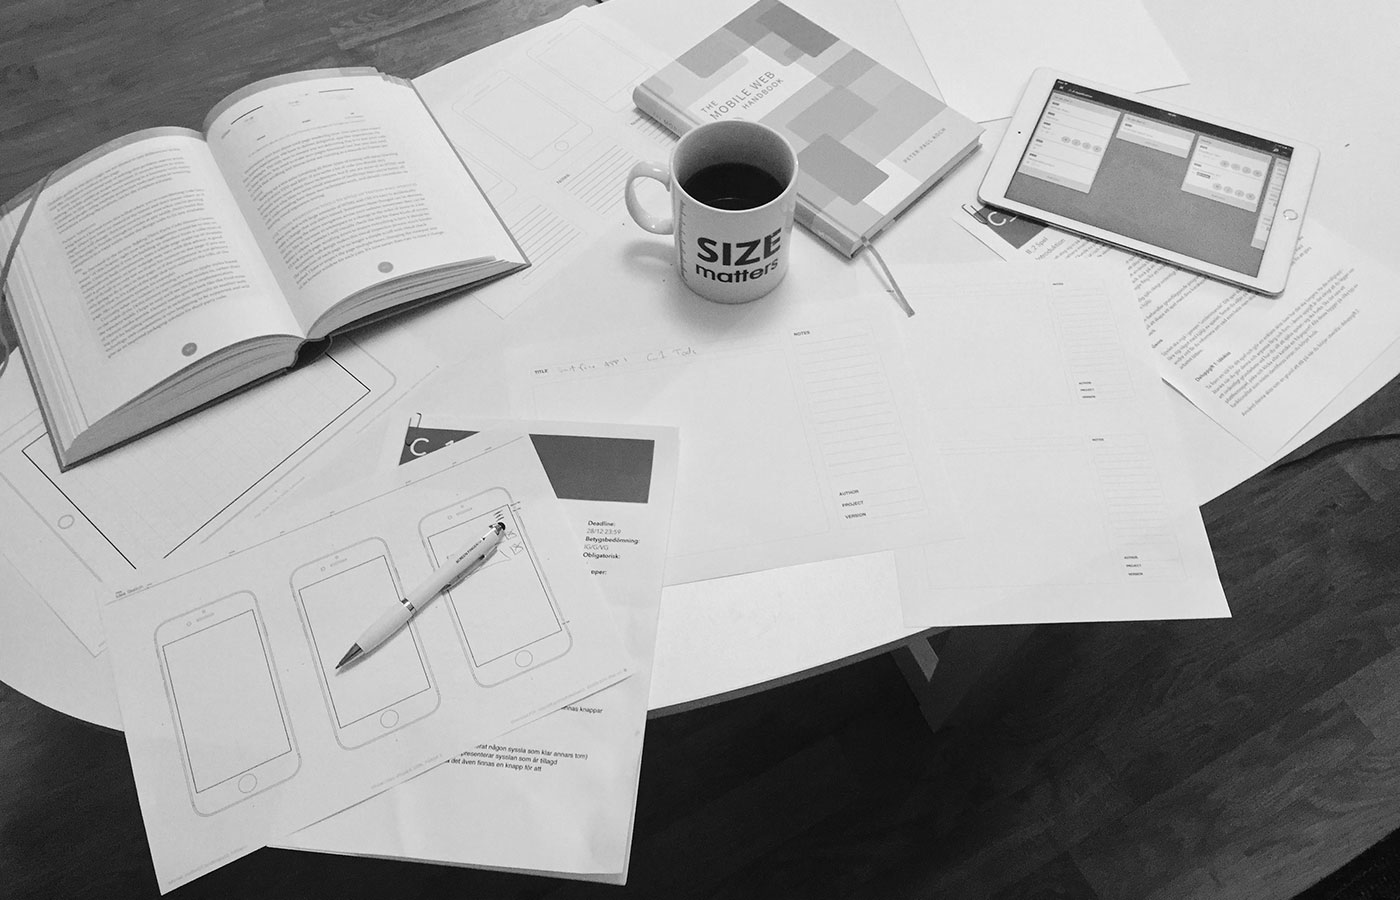
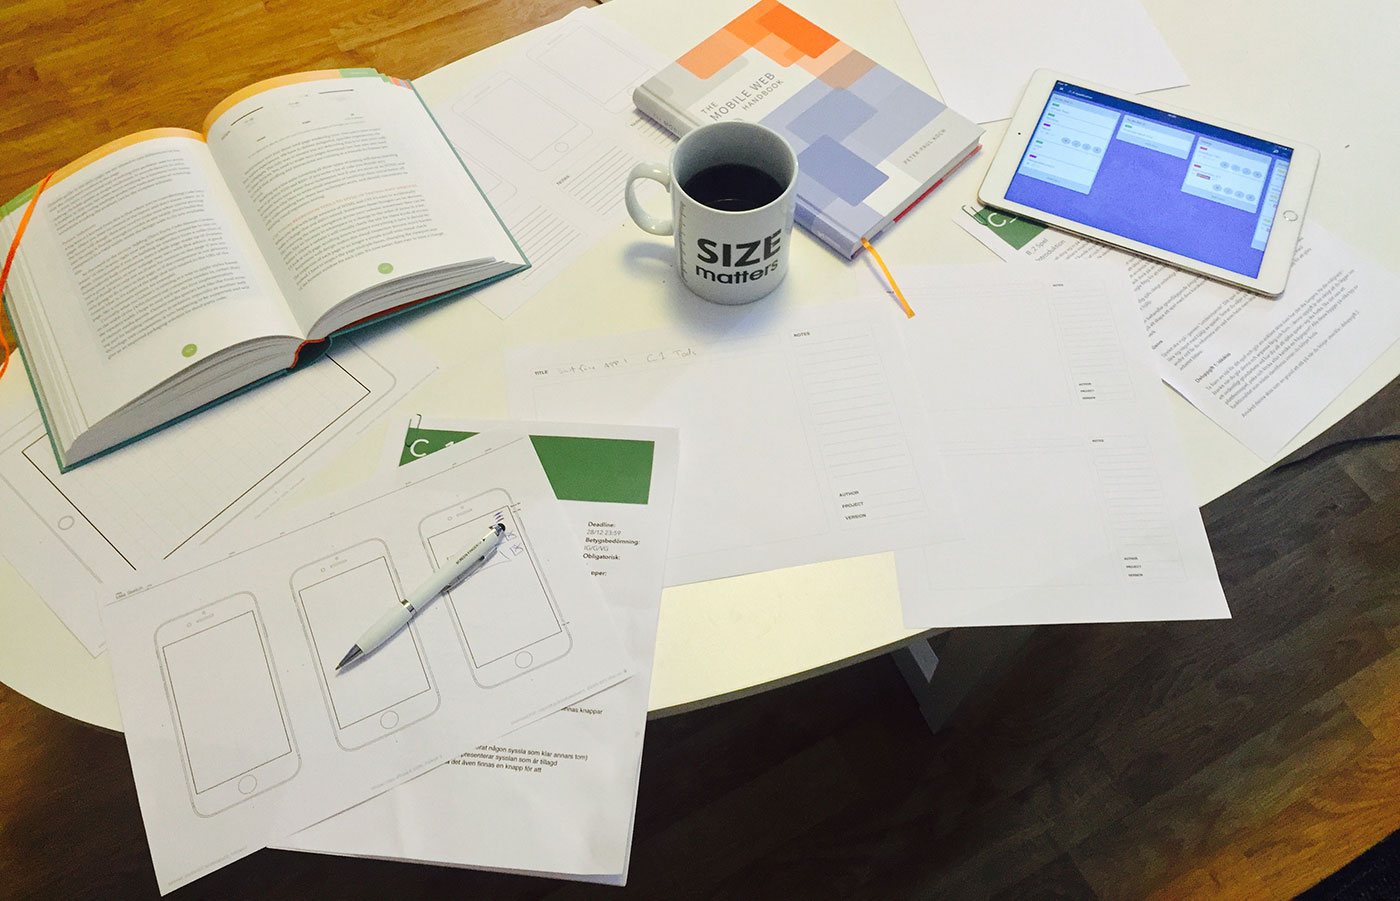
new quote background img, fix html, fix css

diff --git a/index.html b/index.html
@@ -1,15 +1,16 @@
 <!doctype html>
 <html lang="en">
-<head>
-  <meta charset="utf-8">
-  <title>Kevin Martinez | Profile</title>
-  <meta name="viewport" content="width=device-width, initial-scale=1.0">
-  <!-- Normalize.css for browser consistency -->
-  <link rel="stylesheet" href="css/normalize.css">
-  <!-- Font links above styles.css for better cascade *thx to Nick Petit* -->
-  <link href="https://fonts.googleapis.com/css?family=Raleway:800,500" rel="stylesheet">
-  <link href="https://fonts.googleapis.com/css?family=Muli%7CRoboto:400,300,500,700,900" rel="stylesheet"></head>
-  <link rel="stylesheet" href="css/styles.css">
+  <head>
+    <meta charset="utf-8">
+    <title>Kevin Martinez | Profile</title>
+    <meta name="viewport" content="width=device-width, initial-scale=1.0">
+    <!-- Normalize.css for browser consistency -->
+    <link rel="stylesheet" href="css/normalize.css">
+    <!-- Font links above styles.css for better cascade *thx to Nick Petit* -->
+    <link href="https://fonts.googleapis.com/css?family=Raleway:800,500" rel="stylesheet">
+    <link href="https://fonts.googleapis.com/css?family=Muli%7CRoboto:700" rel="stylesheet">
+    <link rel="stylesheet" href="css/styles.css">
+  </head>
   <body>
 
     <nav class="main-nav">
@@ -22,17 +23,17 @@
     </nav>
 
     <header>
-      <img src="images/kevin_profile.jpg" lt="An image of Kevin Martinez" class="profile-image">
+      <img src="images/kevin_profile.jpg" alt="An image of Kevin Martinez" class="profile-image">
       <h1 class="tag name">Kevin Martinez.</h1>
-      <p class="tag">Front-End Developer &amp; Web Designer</p>
+      <p class="tag text-center">Front-End Developer &amp; Web Designer</p>
     </header>
 
     <main class="flex">
       <div class="card">
-        <h2>Background</h2>
+        <h2 class="text-center">Background</h2>
         <p class="lead">I am a designer, developer and a dreamer</p>
         <p>
-          My name is Kevin, i am a open minded web artist and a code monkey with a lot of love for HTML, CSS & JavaScript.
+          My name is Kevin, i am a open minded web artist and a code monkey with a lot of love for HTML, CSS &amp; JavaScript.
         </p>
         <p>
           You can find me at my laptop, in the woods walking with my dog, on the couch with my love eating candy or at the gym exercising my back.
@@ -52,7 +53,7 @@
 
     <section class="flex">
       <div class="card">
-        <h2>Goals</h2>
+        <h2 class="text-center">Goals</h2>
         <p>
           I want to become a Full Stack JavaScript Developer and be a well rounded Web Designer as well.
         </p>
@@ -82,4 +83,4 @@
       <p class="copyright">Copyright &copy; 2015, Kevin Martinez - Made with Love</p>
     </footer>
   </body>
-  </html>
+</html>

diff --git a/css/styles.css b/css/styles.css
@@ -24,12 +24,18 @@ h4,
   font-weight: 800;
 }
 
+/* Generic text center class to avoid CSS repeat */
+.text-center {
+  text-align: center;
+}
+
 /* Link Styles */
 
 a {
   text-decoration: none;
   color: #34495e;
 }
+
 a:hover {
   color: #2980b9;
 }
@@ -49,6 +55,7 @@ a:hover {
   position: fixed;
   text-align: center;
 }
+
 .nav {
   display: block;
   justify-content: space-around;
@@ -62,12 +69,15 @@ a:hover {
     margin-right: auto;
     color: #ecf0f1;
 }
+
 .nav li {
   padding: 5px 10px 10px 10px;
 }
+
 .nav a {
   transition: all 0.8s;
 }
+
 .nav a:hover {
   color: #ecf0f1;
 }
@@ -79,9 +89,11 @@ header {
   overflow: hidden;
   padding-top: 100px;
 }
+
 header {
   line-height: 1.5;
 }
+
 header .profile-image {
   margin-top: 50px;
   width: 180px;
@@ -89,11 +101,20 @@ header .profile-image {
   border-radius: 50%;
   border: 8px solid #2c3e50;
   transition: all .5s;
+  box-shadow: 0 0 0 10px rgba(52, 152, 219, 0.5);
 }
+
+.profile-image::after {
+  content: "HELO";
+  color: red;
+}
+
 header .profile-image:hover {
   transform: scale(1.2) rotate(5deg);
   border: 8px solid #2980b9;
+  box-shadow: 0 0 0 10px rgba(41, 128, 185, 0.2);
 }
+
 .tag {
   color: #2980b9;
   margin: 10px auto;
@@ -104,7 +125,6 @@ header .profile-image:hover {
 .lead {
   color: #95a5a6;
   font-weight: 500;
-  text-align: center;
 }
 
 .card {
@@ -117,12 +137,9 @@ header .profile-image:hover {
   border-radius: 6px;
   transition: all .5s;
 }
+
 .card:hover {
   border-color: #3498db;
-}
-
-.card h2 {
-  text-align: center;
 }
 
 ul.skills {
@@ -203,19 +220,24 @@ a.social {
   opacity: .4;
   transition: all .5s;
 }
+
 /* Removed a selector since it was a bit overqualified for it's purpose */
 .twitter {
   background-image: url(../images/twitter.svg);
 }
+
 .linkedin {
   background-image: url(../images/linkedin.svg);
 }
+
 .github {
   background-image: url(../images/github.svg);
 }
+
 .social:hover {
   opacity: 1;
 }
+
 .clearfix {
   clear: both;
 }
@@ -224,12 +246,12 @@ a.social {
 @media screen and (min-width: 720px) {
 
   .flex {
-      display: -ms-flexbox;      /* TWEENER - IE 10 */
-      display: flex;
-      max-width: 1200px;
-      -ms-flex-pack: distribute;
-      justify-content: space-around;
-      margin: 0 auto;
+    display: -ms-flexbox;      /* TWEENER - IE 10 */
+    display: flex;
+    max-width: 1200px;
+    -ms-flex-pack: distribute;
+    justify-content: space-around;
+    margin: 0 auto;
   }
 
   .main-nav {
@@ -266,9 +288,9 @@ a.social {
   }
 
   /* Quote */
-
   .quote-section {
-    background: url(../images/work-table-kevin.jpg) no-repeat center fixed;
+    background: url(../images/quote-background.jpg) no-repeat center fixed;
+    background-size: cover;
   }
 
   .cite {

diff --git a/contact.html b/contact.html
@@ -1,15 +1,16 @@
 <!doctype html>
 <html lang="en">
-<head>
-  <meta charset="utf-8">
-  <title>Kevin Martinez | Contact</title>
-  <meta name="viewport" content="width=device-width, initial-scale=1.0">
-  <!-- Normalize.css for browser consistency -->
-  <link rel="stylesheet" href="css/normalize.css">
-  <!-- Font links above styles.css for better cascade *thx to Nick Petit* -->
-  <link href="https://fonts.googleapis.com/css?family=Raleway:800,500" rel="stylesheet">
-  <link href="https://fonts.googleapis.com/css?family=Muli%7CRoboto:400,300,500,700,900" rel="stylesheet"></head>
-  <link rel="stylesheet" href="css/styles.css">
+  <head>
+    <meta charset="utf-8">
+    <title>Kevin Martinez | Contact</title>
+    <meta name="viewport" content="width=device-width, initial-scale=1.0">
+    <!-- Normalize.css for browser consistency -->
+    <link rel="stylesheet" href="css/normalize.css">
+    <!-- Font links above styles.css for better cascade *thx to Nick Petit* -->
+    <link href="https://fonts.googleapis.com/css?family=Raleway:800,500" rel="stylesheet">
+    <link href="https://fonts.googleapis.com/css?family=Muli%7CRoboto:700" rel="stylesheet">
+    <link rel="stylesheet" href="css/styles.css">
+  </head>
   <body>
 
     <nav class="main-nav">
@@ -22,24 +23,26 @@
     </nav>
 
     <header>
-      <img src="images/mail.svg" alt="Drawing of Jane Smith" class="profile-image">
+      <img src="images/mail.svg" alt="Mail box icon" class="profile-image">
       <h1 class="tag name">Keep in touch</h1>
       <p class="tag">I would love to hear from you!</p>
     </header>
 
     <main class="flex">
       <div class="card contact">
-        <h2>How to contact Kevin</h2>
-        <p class="lead">The best way to reach out is by e-mail</p>
+        <h2 class="text-center">How to contact Kevin</h2>
+        <p class="lead text-center">The best way to reach out is by e-mail</p>
         <p>
           If you want to discuss something, perhaps get help with something or just make an awesome new developer friend, feel free to contact me.
         </p>
         <p>
           I'll answer all mails
         </p>
-        <p>My e-mail adress:
+        <p class="text-center">My e-mail adress:
         </p>
-        <a href="mailto:kevin@pixelkojan.se?subject=Mail from Portfolio">kevin@pixelkojan.se</a>
+        <p class="text-center">
+          <a href="mailto:kevin@pixelkojan.se?subject=Hello%20Kevin%20From%20Portfolio">kevin@pixelkojan.se</a>
+        </p>
         <p>Love to hear from you!</p>
       </div>
     </main>
@@ -59,4 +62,4 @@
       <p class="copyright">Copyright &copy; 2015, Kevin Martinez - Made with Love</p>
     </footer>
   </body>
-  </html>
+</html>

diff --git a/experience.html b/experience.html
@@ -1,15 +1,16 @@
 <!doctype html>
 <html lang="en">
-<head>
-  <meta charset="utf-8">
-  <title>Kevin Martinez | Experience</title>
-  <meta name="viewport" content="width=device-width, initial-scale=1.0">
-  <!-- Normalize.css for browser consistency -->
-  <link rel="stylesheet" href="css/normalize.css">
-  <!-- Font links above styles.css for better cascade *thx to Nick Petit* -->
-  <link href="https://fonts.googleapis.com/css?family=Raleway:800,500" rel="stylesheet">
-  <link href="https://fonts.googleapis.com/css?family=Muli%7CRoboto:400,300,500,700,900" rel="stylesheet"></head>
-  <link rel="stylesheet" href="css/styles.css">
+  <head>
+    <meta charset="utf-8">
+    <title>Kevin Martinez | Experience</title>
+    <meta name="viewport" content="width=device-width, initial-scale=1.0">
+    <!-- Normalize.css for browser consistency -->
+    <link rel="stylesheet" href="css/normalize.css">
+    <!-- Font links above styles.css for better cascade *thx to Nick Petit* -->
+    <link href="https://fonts.googleapis.com/css?family=Raleway:800,500" rel="stylesheet">
+    <link href="https://fonts.googleapis.com/css?family=Muli%7CRoboto:700" rel="stylesheet">
+    <link rel="stylesheet" href="css/styles.css">
+  </head>
   <body>
 
     <nav class="main-nav">
@@ -22,15 +23,15 @@
     </nav>
 
     <header>
-      <img src="images/experience.svg" alt="An image of Kevin Martinez" class="profile-image">
+      <img src="images/experience.svg" alt="Bag of experience icon" class="profile-image">
       <h1 class="tag name">Experience</h1>
       <p class="tag">A bit about my experiences.</p>
     </header>
 
     <main class="flex">
       <div class="card">
-        <h2>What have i done?</h2>
-        <p class="lead">Or, what have i not done?</p>
+        <h2 class="text-center">What have i done?</h2>
+        <p class="lead text-center">Or, what have i not done?</p>
         <p>
           I came from Chile to Sweden with my mother in a cold winter of '87. Her goal was to create a better future in a free country.
         </p>
@@ -61,4 +62,4 @@
       <p class="copyright">Copyright &copy; 2015, Kevin Martinez - Made with Love</p>
     </footer>
   </body>
-  </html>
+</html>
